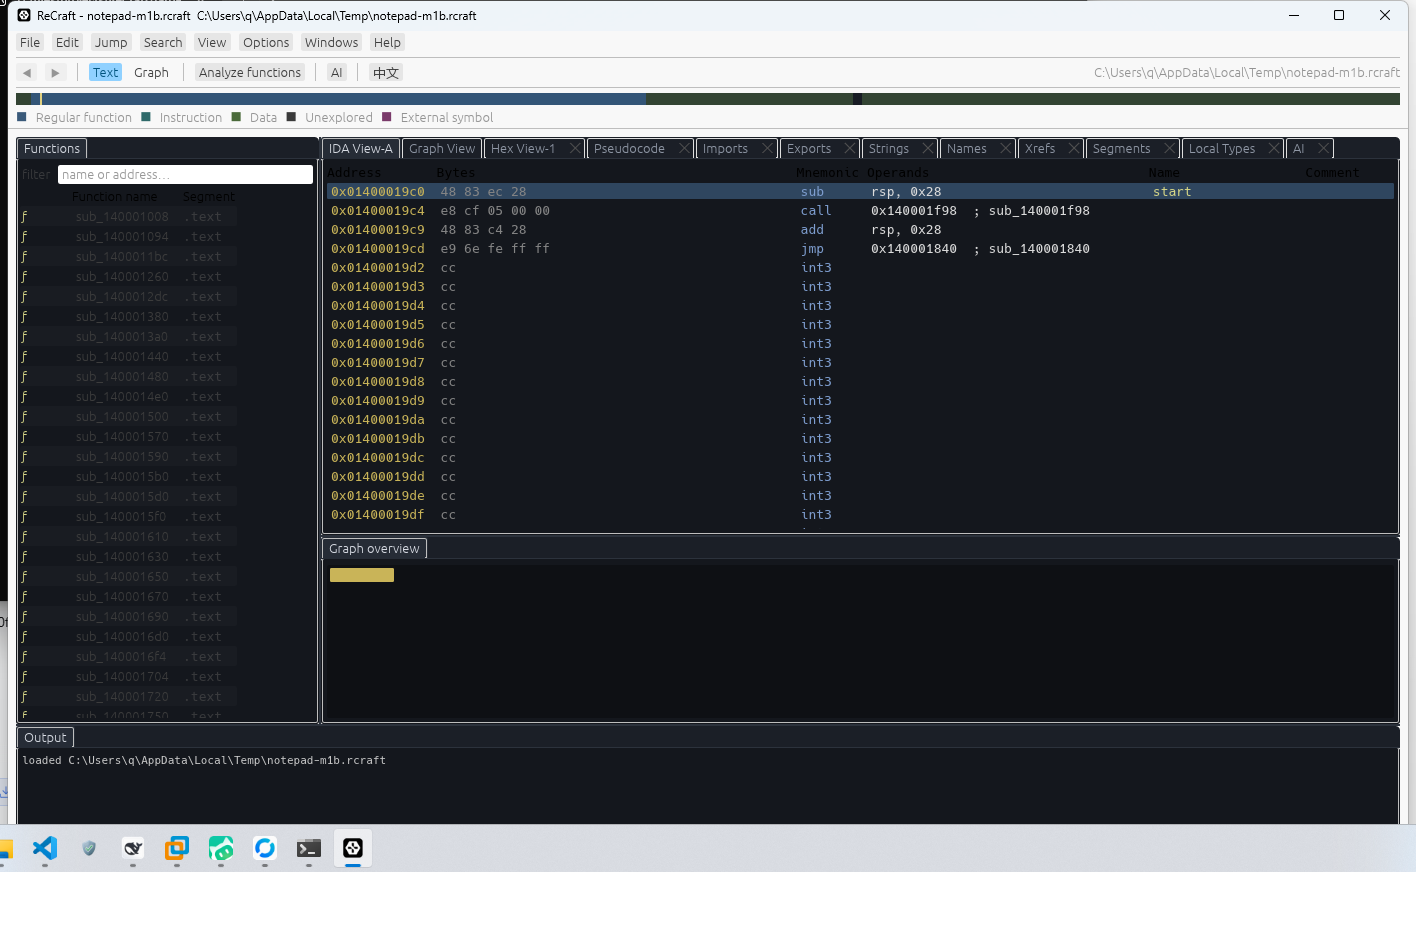
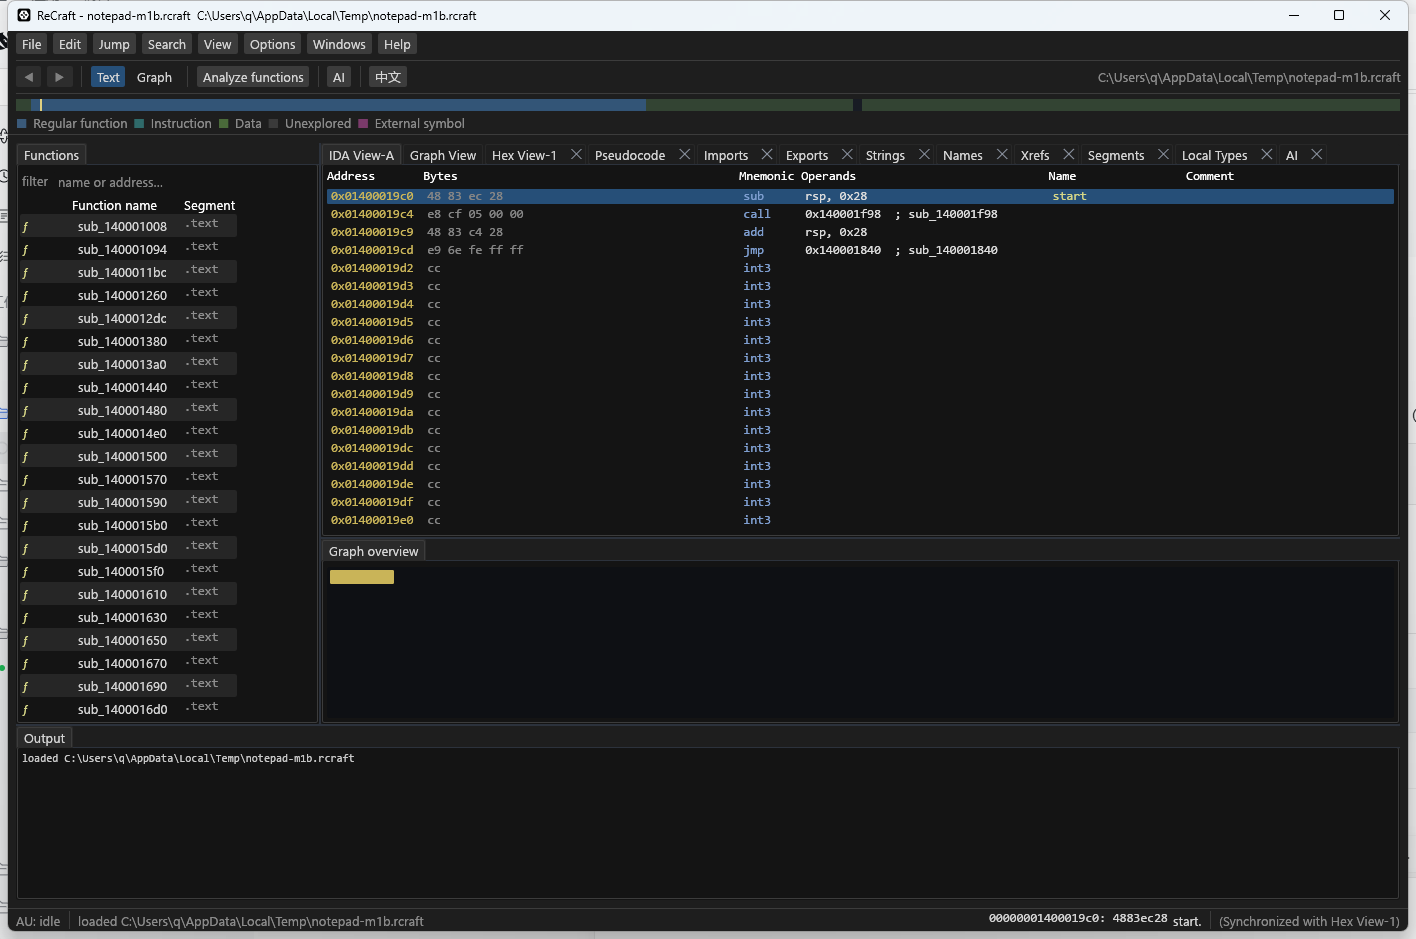
feat(ui): IDA layout step 2 - Consolas/Segoe UI theme and compact rows
Installs IDA-like fonts on first frame (Consolas mono, Segoe UI UI text, Microsoft YaHei CJK fallback) and unifies the dark palette: panel #1e1e1e, view #141414, text #d4d4d4, IDA blue selection #264f78, subtle hover, 15px code rows at 12.5px Consolas, compact UI text styles/button padding and dock tab chrome with visible close buttons. Missing font files fall back to egui defaults so headless tests stay green. Refreshes docs/images/ida-layout.png and changelog.

diff --git a/crates/recraft-ui/src/app.rs b/crates/recraft-ui/src/app.rs
@@ -25,16 +25,21 @@ use recraft_decompile::{PseudoLine, pseudocode_l0};
 use crate::i18n::{Lang, tr};
 
 const DISASM_ROWS: usize = 400;
-const MONO_SIZE: f32 = 13.0;
+const MONO_SIZE: f32 = 12.5;
+const ROW_HEIGHT: f32 = 15.0;
 
+/// IDA dark-theme palette: near-black views on a slightly lighter chrome.
+const C_PANEL: Color32 = Color32::from_rgb(0x1e, 0x1e, 0x1e);
+const C_VIEW: Color32 = Color32::from_rgb(0x14, 0x14, 0x14);
+const C_TEXT: Color32 = Color32::from_rgb(0xd4, 0xd4, 0xd4);
 const C_ADDR: Color32 = Color32::from_rgb(0xc9, 0xb4, 0x58);
 const C_BYTES: Color32 = Color32::from_rgb(0x85, 0x85, 0x85);
 const C_MNEMONIC: Color32 = Color32::from_rgb(0x7e, 0x9e, 0xd0);
 const C_NAME: Color32 = Color32::from_rgb(0xd7, 0xd7, 0x87);
 const C_COMMENT: Color32 = Color32::from_rgb(0x6a, 0x99, 0x55);
 /// IDA-style current-line highlight and hover tint.
-const C_SELECTED_ROW: Color32 = Color32::from_rgb(0x2f, 0x46, 0x5f);
-const C_HOVER_ROW: Color32 = Color32::from_rgb(0x22, 0x2a, 0x35);
+const C_SELECTED_ROW: Color32 = Color32::from_rgb(0x26, 0x4f, 0x78);
+const C_HOVER_ROW: Color32 = Color32::from_rgb(0x2a, 0x30, 0x38);
 
 #[derive(Clone, Copy, PartialEq, Eq, Debug)]
 enum HexUnit {
@@ -424,6 +429,8 @@ pub struct ReCraftApp {
     dock: Option<egui_dock::DockState<Pane>>,
     layout_saved: Option<String>,
     frame_count: u64,
+    /// Fonts/theme installed on the first frame (Consolas/Segoe UI when available).
+    ui_ready: bool,
     /// Output-window log (analysis/eval/status messages), oldest first.
     log: Vec<String>,
     status: String,
@@ -491,6 +498,7 @@ impl Default for ReCraftApp {
             dock: None,
             layout_saved: None,
             frame_count: 0,
+            ui_ready: false,
             log: Vec::new(),
             status: String::new(),
             is_error: false,
@@ -852,6 +860,92 @@ impl ReCraftApp {
     }
 
     // ------------------------------------------------------------- refresh --
+
+    /// Install IDA-like fonts (Consolas for monospace, Segoe UI for UI text) and the
+    /// dark palette on the first frame. Missing font files simply keep egui's defaults.
+    fn install_style(&mut self, ctx: &egui::Context) {
+        if self.ui_ready {
+            return;
+        }
+        self.ui_ready = true;
+        let mut fonts = egui::FontDefinitions::default();
+        let candidates = [
+            ("consolas", "C:\\Windows\\Fonts\\consola.ttf"),
+            ("consolas_bold", "C:\\Windows\\Fonts\\consolab.ttf"),
+            ("segoeui", "C:\\Windows\\Fonts\\segoeui.ttf"),
+        ];
+        let mut loaded = false;
+        for (name, path) in candidates {
+            if let Ok(bytes) = std::fs::read(path) {
+                fonts
+                    .font_data
+                    .insert(name.to_owned(), egui::FontData::from_owned(bytes).into());
+                loaded = true;
+            }
+        }
+        // CJK fallback (IDA's UI is English but ReCraft ships a Chinese UI too).
+        for (name, path) in [
+            ("cjk", "C:\\Windows\\Fonts\\msyh.ttc"),
+            ("cjk", "C:\\Windows\\Fonts\\simhei.ttf"),
+            ("cjk", "C:\\Windows\\Fonts\\simsun.ttc"),
+        ] {
+            if let Ok(bytes) = std::fs::read(path) {
+                let mut data = egui::FontData::from_owned(bytes);
+                data.index = 0;
+                fonts.font_data.insert(name.to_owned(), data.into());
+                for family in [egui::FontFamily::Proportional, egui::FontFamily::Monospace] {
+                    fonts
+                        .families
+                        .entry(family)
+                        .or_default()
+                        .push(name.to_owned());
+                }
+                loaded = true;
+                break;
+            }
+        }
+        for (name, family) in [
+            ("consolas", egui::FontFamily::Monospace),
+            ("segoeui", egui::FontFamily::Proportional),
+        ] {
+            if fonts.font_data.contains_key(name) {
+                fonts
+                    .families
+                    .entry(family)
+                    .or_default()
+                    .insert(0, name.to_owned());
+            }
+        }
+        if loaded {
+            ctx.set_fonts(fonts);
+        }
+        let mut visuals = egui::Visuals::dark();
+        visuals.panel_fill = C_PANEL;
+        visuals.window_fill = C_PANEL;
+        visuals.extreme_bg_color = C_VIEW;
+        visuals.faint_bg_color = Color32::from_rgb(0x26, 0x26, 0x26);
+        visuals.override_text_color = Some(C_TEXT);
+        visuals.selection.bg_fill = C_SELECTED_ROW;
+        ctx.set_visuals(visuals);
+        ctx.all_styles_mut(|style| {
+            use egui::{FontFamily, FontId, TextStyle};
+            style
+                .text_styles
+                .insert(TextStyle::Body, FontId::proportional(13.0));
+            style
+                .text_styles
+                .insert(TextStyle::Button, FontId::proportional(13.0));
+            style
+                .text_styles
+                .insert(TextStyle::Small, FontId::proportional(11.0));
+            style.text_styles.insert(
+                TextStyle::Monospace,
+                FontId::new(MONO_SIZE, FontFamily::Monospace),
+            );
+            style.spacing.item_spacing = egui::vec2(6.0, 3.0);
+            style.spacing.button_padding = egui::vec2(6.0, 2.0);
+        });
+    }
 
     fn tick(&mut self) {
         self.poll_analysis();
@@ -1651,18 +1745,21 @@ impl ReCraftApp {
             egui::CentralPanel::default().show(ui, |ui| {
                 let mut style = egui_dock::Style::from_egui(ui.style().as_ref());
                 // IDA-ish chrome: dark tab bars, subtle separators, compact tabs.
-                style.tab_bar.bg_fill = Color32::from_rgb(0x1b, 0x1f, 0x27);
+                style.tab_bar.bg_fill = C_PANEL;
                 style.tab_bar.hline_color = Color32::from_rgb(0x2c, 0x32, 0x3c);
                 style.tab_bar.height = 22.0;
-                style.tab.active.bg_fill = Color32::from_rgb(0x26, 0x2c, 0x36);
-                style.tab.focused.bg_fill = Color32::from_rgb(0x2f, 0x36, 0x42);
-                style.tab.inactive.bg_fill = Color32::from_rgb(0x1b, 0x1f, 0x27);
-                style.tab.active.text_color = Color32::from_rgb(0xd8, 0xdc, 0xe4);
+                style.tab.active.bg_fill = Color32::from_rgb(0x2a, 0x2a, 0x2a);
+                style.tab.focused.bg_fill = Color32::from_rgb(0x33, 0x33, 0x33);
+                style.tab.inactive.bg_fill = C_PANEL;
+                style.tab.active.text_color = C_TEXT;
                 style.tab.inactive.text_color = Color32::from_rgb(0x90, 0x98, 0xa6);
-                style.tab.tab_body.bg_fill = Color32::from_rgb(0x14, 0x17, 0x1d);
+                style.tab.tab_body.bg_fill = C_VIEW;
                 style.separator.width = 2.0;
                 style.separator.color_idle = Color32::from_rgb(0x2c, 0x32, 0x3c);
                 style.separator.color_hovered = Color32::from_rgb(0x5a, 0x7a, 0x9a);
+                style.buttons.close_tab_bg_fill = Color32::TRANSPARENT;
+                style.buttons.close_tab_color = Color32::from_rgb(0x90, 0x98, 0xa6);
+                style.buttons.close_tab_active_color = Color32::WHITE;
                 egui_dock::DockArea::new(&mut state)
                     .style(style)
                     .draggable_tabs(true)
@@ -2716,7 +2813,7 @@ impl ReCraftApp {
                     // One full-row hit area, like IDA: the whole line is selectable and
                     // double-click follows the operand instead of only the address cell.
                     let (rect, response) =
-                        ui.allocate_exact_size(egui::vec2(width, 16.0), Sense::click());
+                        ui.allocate_exact_size(egui::vec2(width, ROW_HEIGHT), Sense::click());
                     if index == self.selected {
                         ui.painter().rect_filled(rect, 1.0, C_SELECTED_ROW);
                     } else if response.hovered() {
@@ -2990,7 +3087,7 @@ impl ReCraftApp {
                 ui.spacing_mut().item_spacing.y = 1.0;
                 for line in lines {
                     let (rect, response) =
-                        ui.allocate_exact_size(egui::vec2(width, 16.0), Sense::click());
+                        ui.allocate_exact_size(egui::vec2(width, ROW_HEIGHT), Sense::click());
                     if synced == Some(line.addr) {
                         ui.painter().rect_filled(rect, 1.0, C_SELECTED_ROW);
                     } else if response.hovered() {
@@ -3656,6 +3753,7 @@ impl ReCraftApp {
 
     fn update_inner(&mut self, root: &mut egui::Ui) {
         let ctx = root.ctx().clone();
+        self.install_style(&ctx);
         self.tick();
         let title = match self.project.as_ref() {
             Some(path) => format!(

diff --git a/CHANGELOG.md b/CHANGELOG.md
@@ -9,6 +9,15 @@ and this project adheres to [Semantic Versioning](https://semver.org/spec/v2.0.0
 
 ### Added
 
+- IDA-layout step 2 (theme + fonts): installs IDA-like typography on the first frame —
+  Consolas for monospace text, Segoe UI for the UI and Microsoft YaHei as CJK fallback
+  (system font files are optional; egui's defaults remain as fallback). Unifies the dark
+  palette (panel `#1e1e1e`, view `#141414`, text `#d4d4d4`), IDA's blue current-line
+  highlight (`#264f78`), subtler hover tint, compact 15 px code rows at 12.5 px Consolas,
+  smaller UI text styles/button padding, and dock tab/chrome colors matching the new
+  palette (including visible tab close buttons). Falls back cleanly when the font files are
+  absent (e.g. CI), so headless tests keep passing (30 UI tests).
+
 - IDA-layout step 1 (reference-screenshot alignment, not pixel-perfect): replaced the
   generic tool column with an IDA-style workspace — menu bar (File/Edit/Jump/Search/View/
   Options/Windows/Help), toolbar (back/forward, Text/Graph toggle, Analyze, AI, language,
